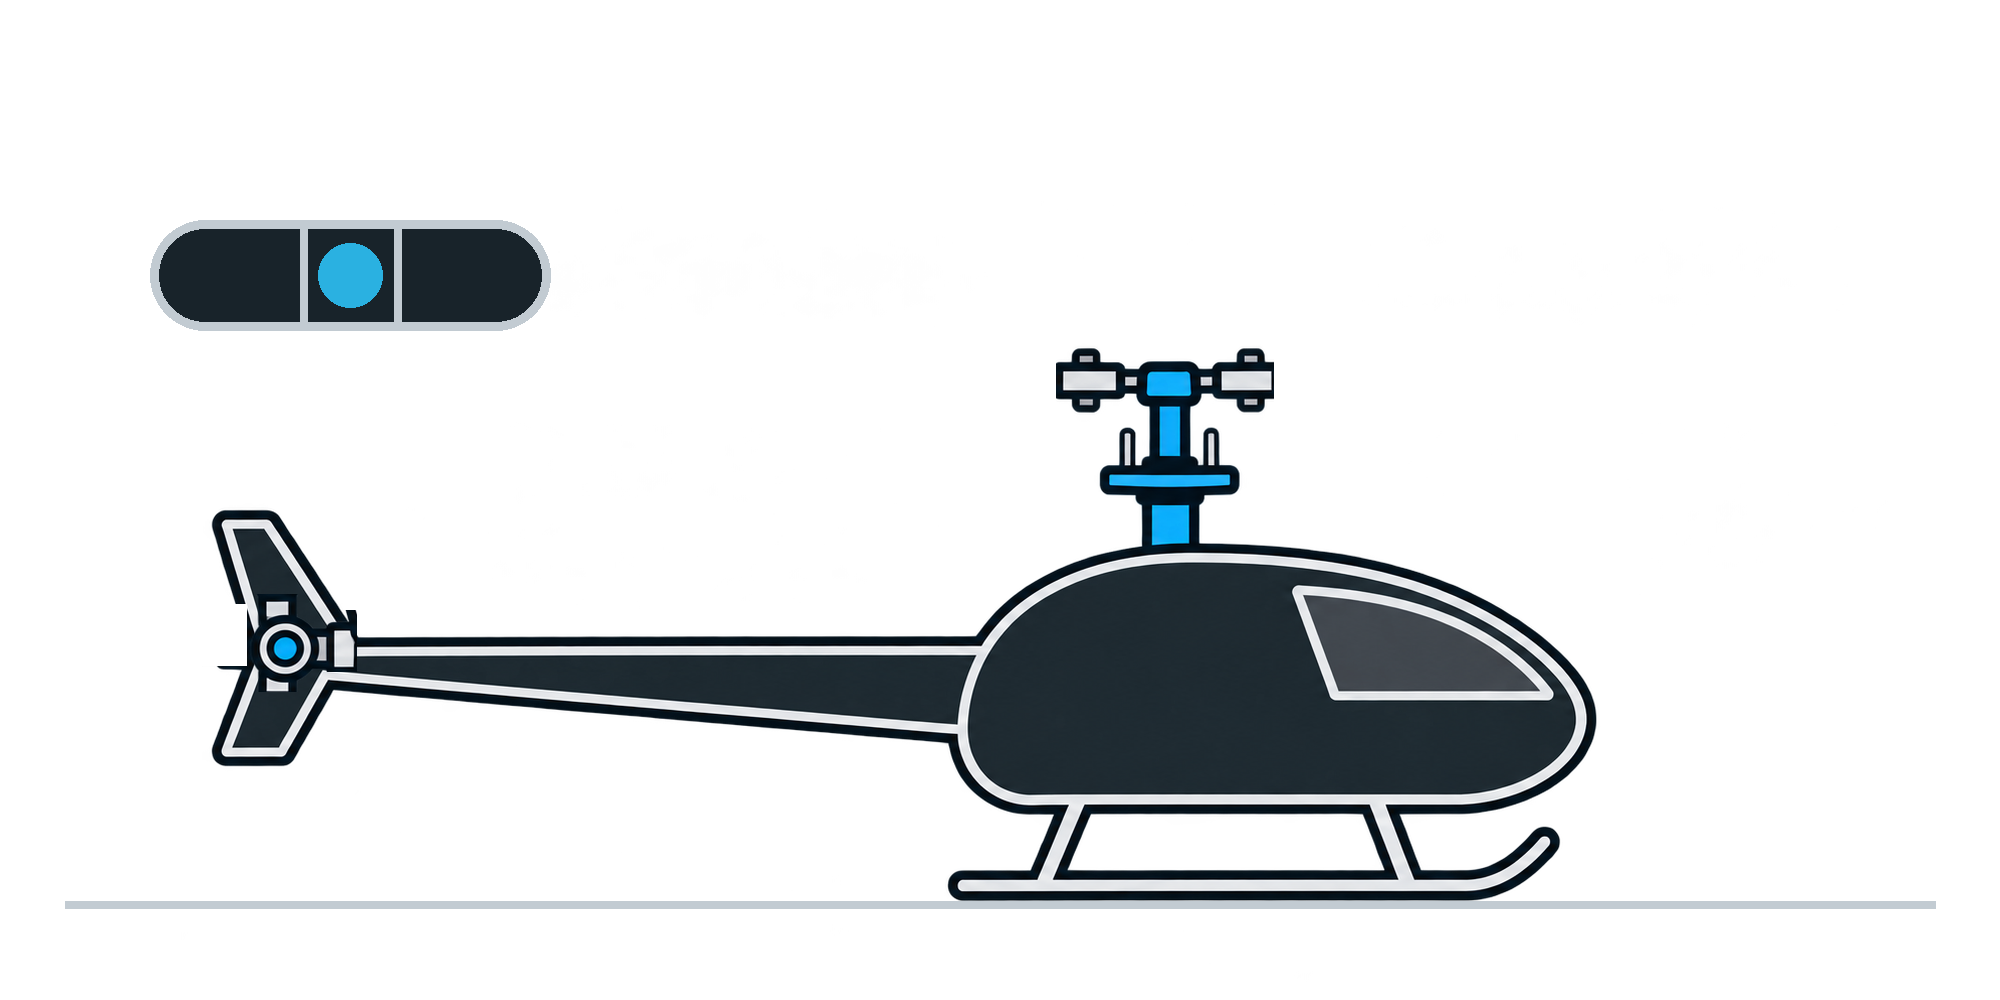
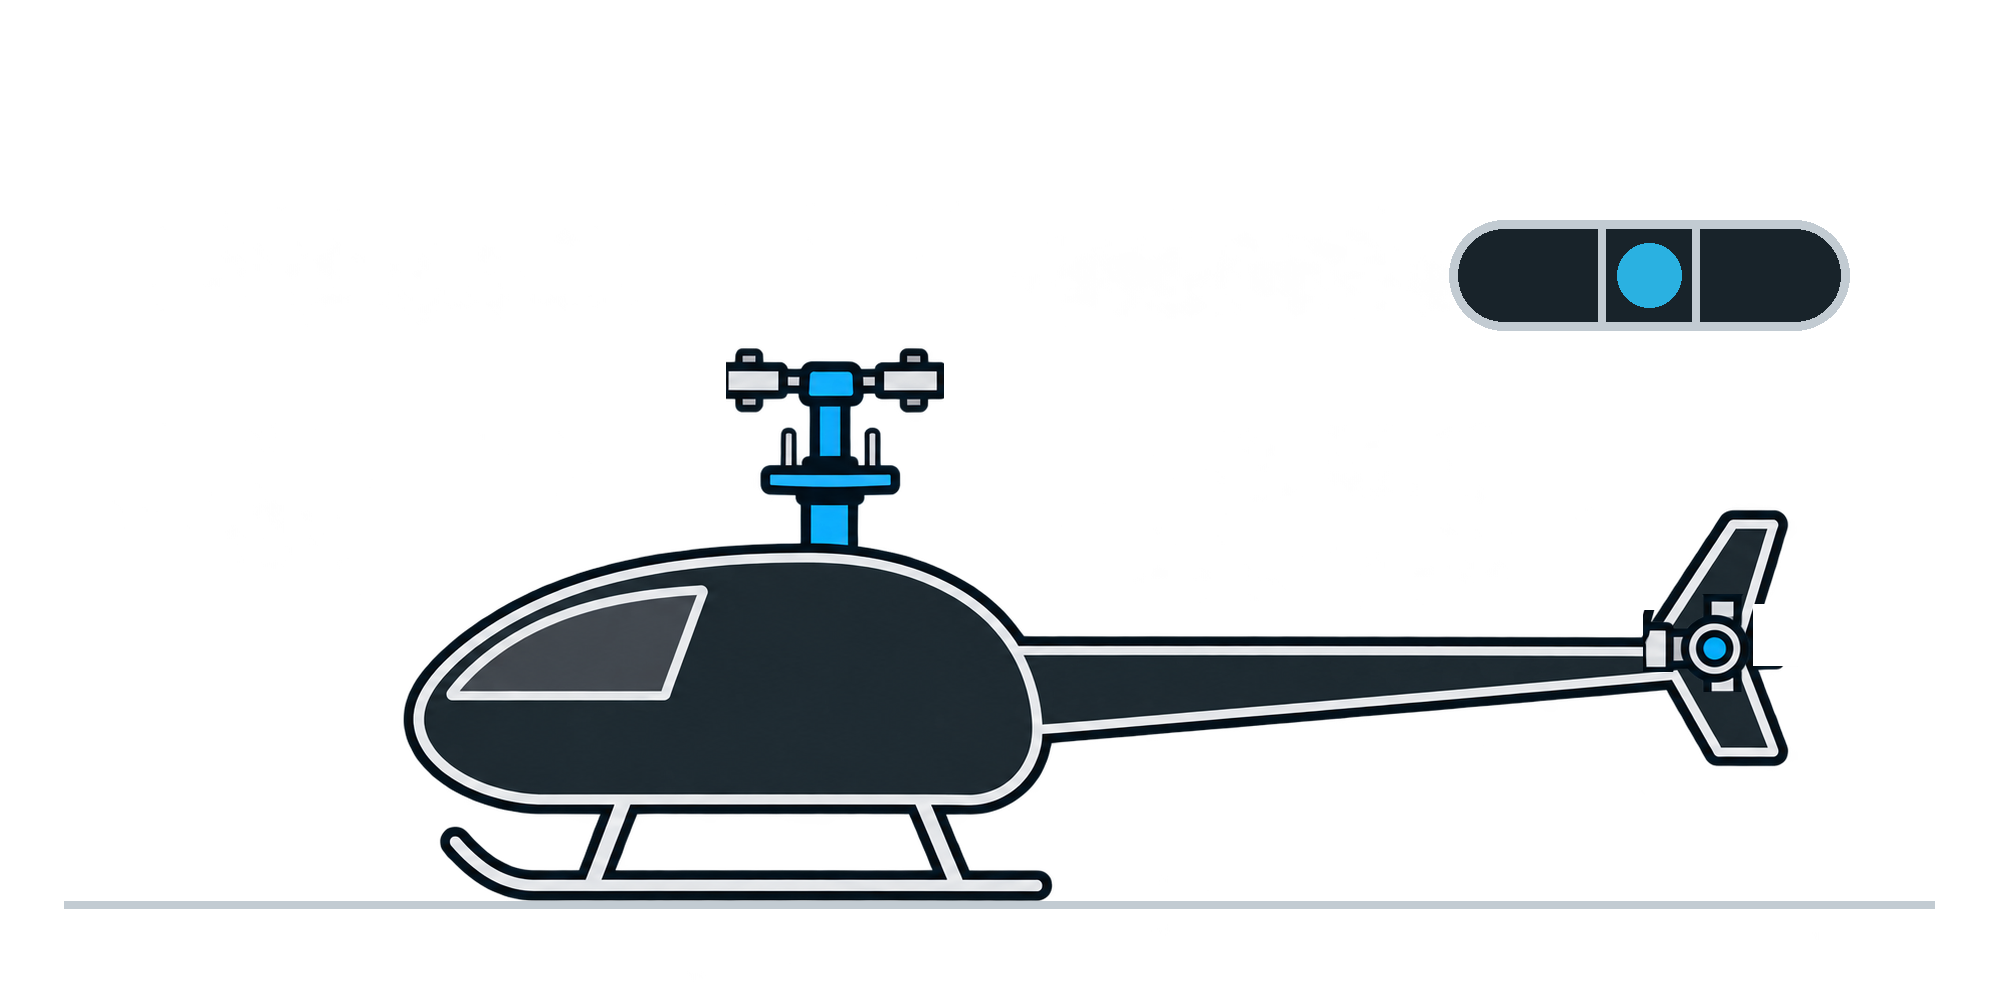
fix(setup): turn the helicopter pictures nose left, as every wizard drawing is
The helicopter master faces right, while the wizard's drawings and its live
attitude view put the nose on the left. build_helicopter_artwork.py now mirrors
each finished image and turns the 20-degree label back so it stays readable
(geometry.json: mirror, readableRegions); the accepted images, their checksums
and the three radio PNGs are regenerated. The 112 Configurator exports are
unchanged byte for byte.

Changed region(s): [[0.093, 0.341, 0.899, 0.899], [0.713, 0.217, 0.93, 0.341], [0.062, 0.217, 0.279, 0.341]]

diff --git a/bin/wizard/build_helicopter_artwork.py b/bin/wizard/build_helicopter_artwork.py
@@ -63,6 +63,12 @@ for name,base,reference in layers:
     patch = np.asarray(Image.open(ART/"annotations"/(name+".png")).convert("RGBA"))
     patch_mask = np.asarray(Image.open(ART/"annotations"/(name+"-mask.png"))) > 0
     pixels[patch_mask] = patch[patch_mask]
+    # The master faces right; the wizard draws every helicopter nose left. Mirror the finished
+    # image, then turn text regions back so they stay readable.
+    if layout.get("mirror"):
+        pixels = np.ascontiguousarray(pixels[:, ::-1])
+        for x0,y0,x1,y1 in layout.get("readableRegions", {}).get(name, []):
+            pixels[y0:y1+1,x0:x1+1] = pixels[y0:y1+1,x0:x1+1][:, ::-1]
     result = Image.fromarray(pixels)
     accepted = ART/"accepted"/(name+".png")
     if args.write:
